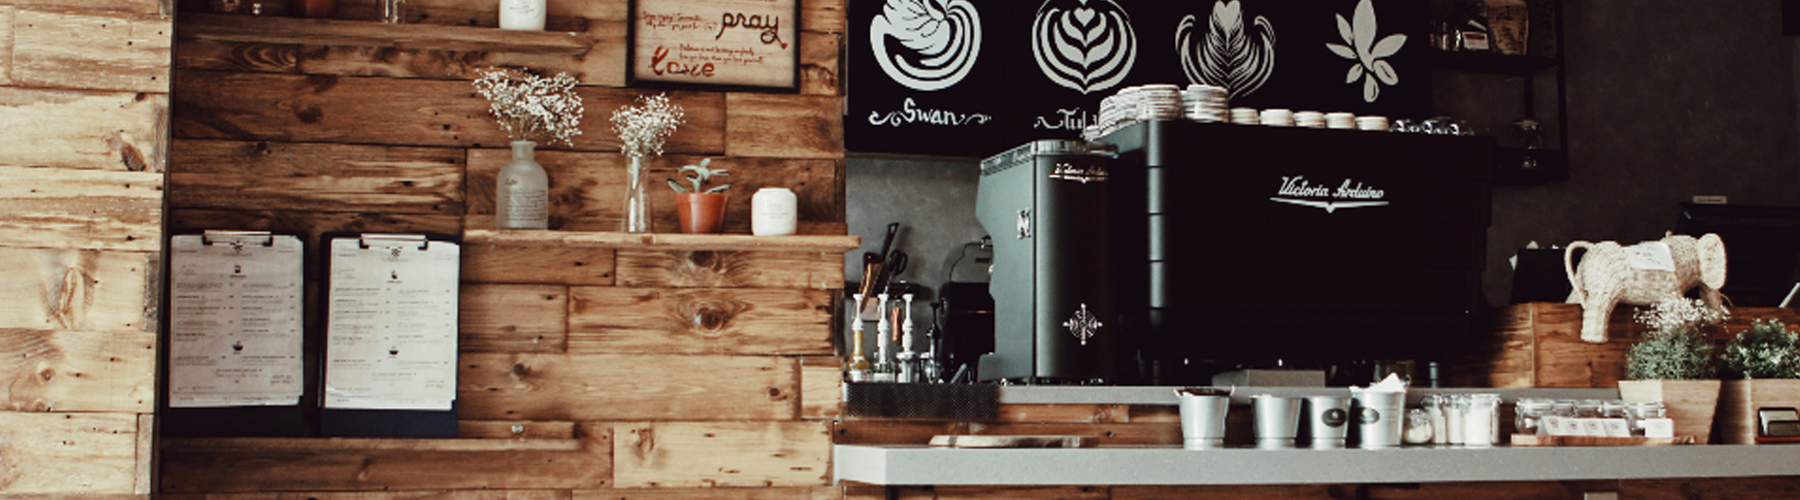
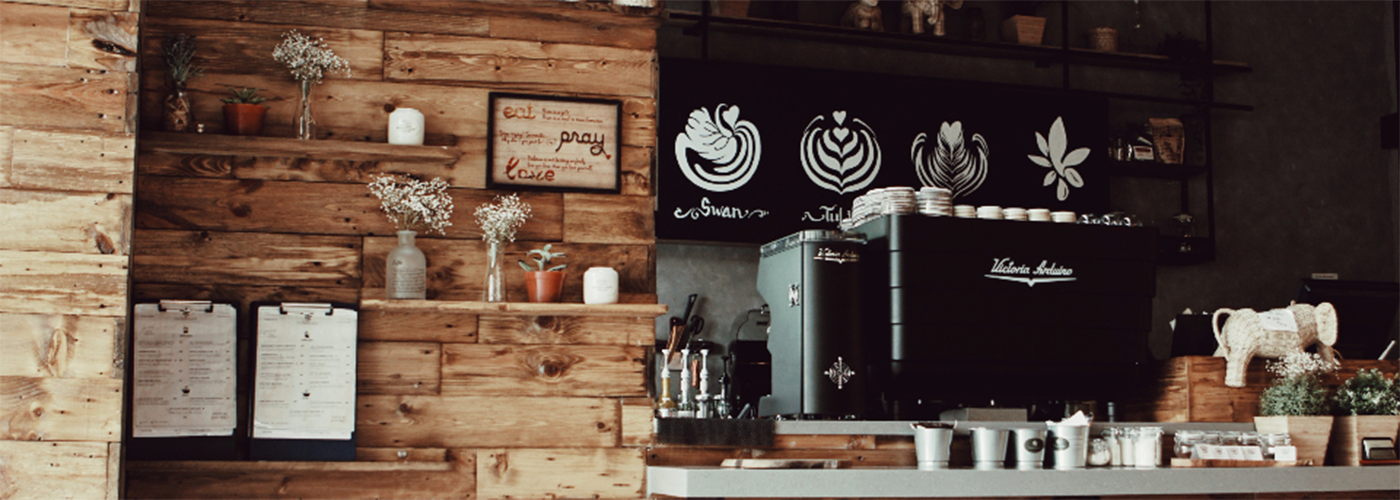
update

diff --git a/codering/index.html b/codering/index.html
@@ -28,10 +28,10 @@
             </ul>
         </nav>
     </div>
+    <div class="banner">
+        
+    </div>
     <div class="maincontent home">
-        <section class="banner">
-            <img src="../img/banner_groot.png" alt="Java the Hutt banner">
-        </section>
         <section class="intro">
             <h1>Welkom at Java</h1>
             <p>

diff --git a/css/style.css b/css/style.css
@@ -89,10 +89,15 @@ a:hover {
 /* navigatie einde */
 
 /* homepagina begin */
-.banner{
+.banner {
   width: 100%;
+  height: 500px;
   grid-column: 1 / -1;
   padding: 2.5em;
+  background-image: url("../img/banner_groot_2.png");
+  background-image: contain;
+  background-repeat: no-repeat;
+  margin: 2.5rem;
 }
 
 .maincontent {
